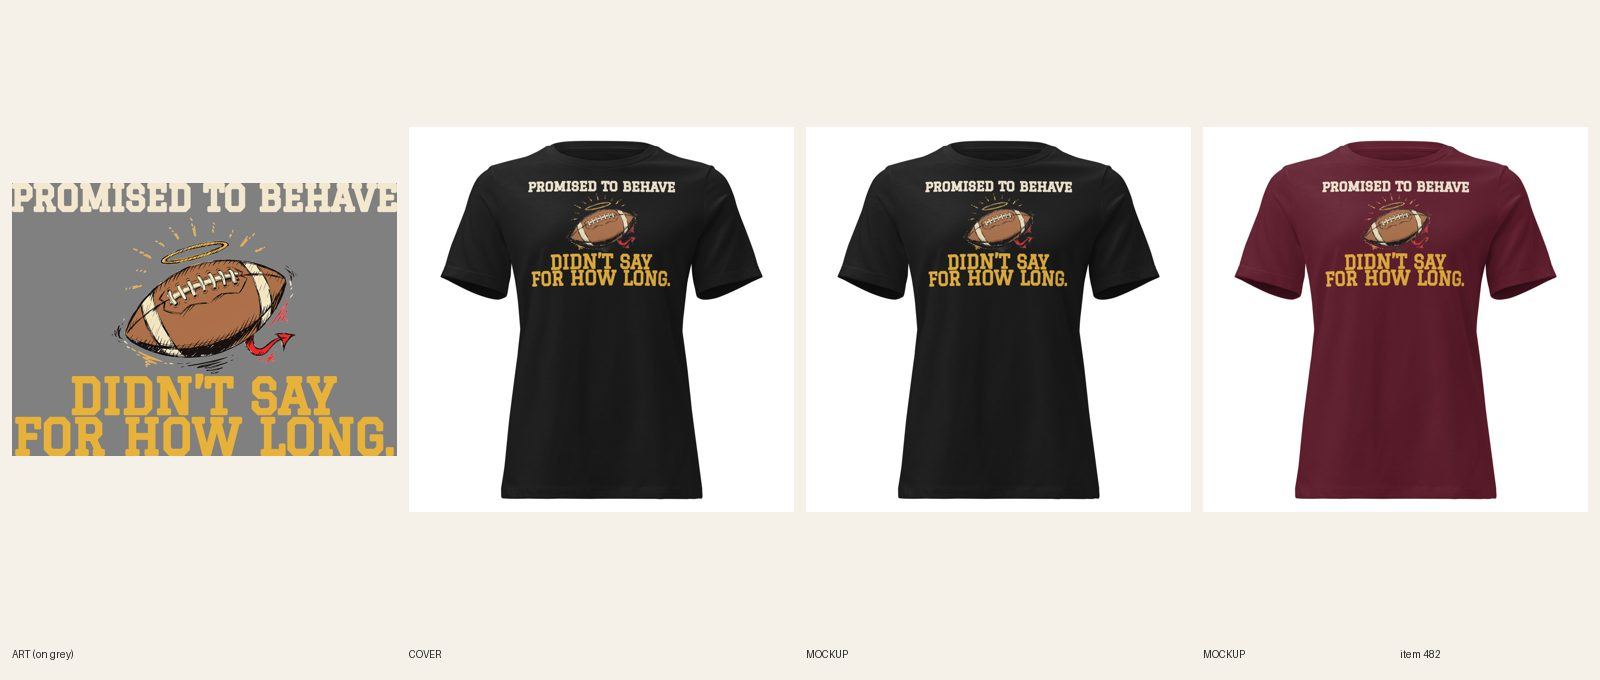
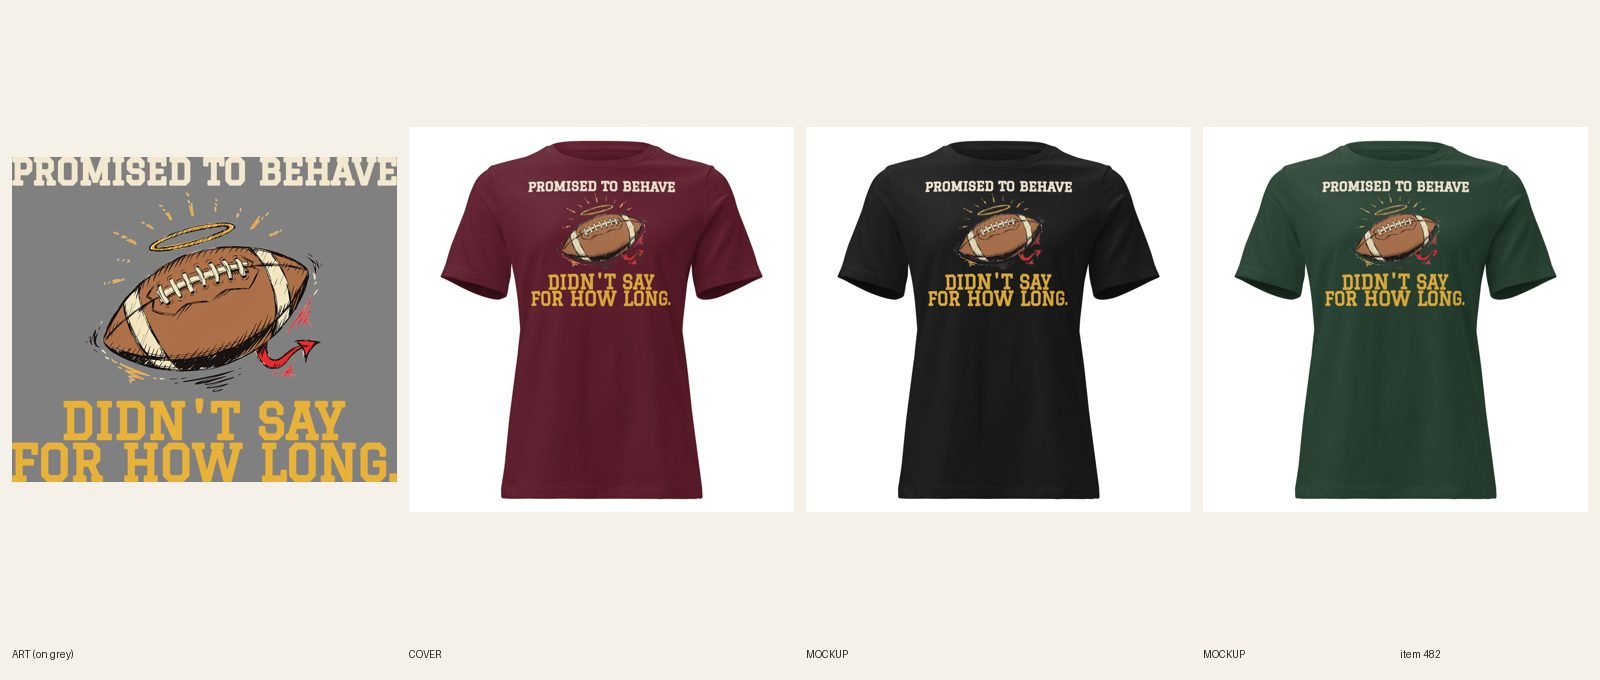
[B] review 482 Football Mom tee redo 2 (type)
Claude-Session: https://claude.ai/code/session_01MNDQHiqSPYCFoRuKRuJaej

diff --git a/scripts/b-lockup.py b/scripts/b-lockup.py
@@ -1,0 +1,46 @@
+#!/usr/bin/env python3
+"""b-lockup.py <spec.json>  lane B lockup: top line / art / bottom lines, all lines of a group at ONE font size.
+spec: {"art": "art.png", "out": "print.png", "W": 3600, "art_w": 0.62, "knock": 3000, "gap": 50, "solid": true,
+ "top": {"lines": ["PROMISED TO BEHAVE"], "font": "Graduate-Regular.ttf", "w": 0.9, "fill": "#f3e7cf", "stroke": 14, "sfill": "#f3e7cf"},
+ "bottom": {"lines": ["FOR HOW LONG.", "DIDN'T SAY"], "font": ..., "w": 0.9, ...}}
+Group font size = the size at which the widest line is w * W. An apostrophe is drawn with air on both sides so the stroke never fuses it to the next letter.
+Prints each line's ink width (px) and the headline/punch width ratio."""
+import json, subprocess, sys, tempfile, os
+from PIL import Image, ImageDraw, ImageFont
+S = json.load(open(sys.argv[1])); W = S.get('W', 3600); F = 'designs/fonts/'
+def render(text, d, size):
+    f = ImageFont.truetype(F + d['font'], size); sk = d.get('stroke', 0); air = int(size * d.get('apo_air', 0.07))
+    parts = []
+    for i, p in enumerate(text.split("'")):
+        parts.append(p)
+        if i < len(text.split("'")) - 1: parts.append("'")
+    segs = []
+    for p in parts:
+        bb = f.getbbox(p, stroke_width=sk); segs.append((p, bb))
+    tot = sum(bb[2] - bb[0] for _, bb in segs) + 2 * air * text.count("'") + 40
+    h = max(bb[3] for _, bb in segs) + 40
+    im = Image.new('RGBA', (tot + 40, h + 40), (0, 0, 0, 0)); dr = ImageDraw.Draw(im); x = 20
+    for p, bb in segs:
+        if p == "'": x += air
+        dr.text((x - bb[0], 20), p, font=f, fill=d['fill'], stroke_width=sk, stroke_fill=d.get('sfill'))
+        x += bb[2] - bb[0] + (air if p == "'" else 0)
+    return im.crop(im.getbbox())
+def group(d):
+    size = 100
+    while max(render(t, d, size).width for t in d['lines']) < W * d.get('w', 0.9) and size < 3000: size += 6
+    ims = [render(t, d, size) for t in d['lines']]
+    h = sum(i.height for i in ims) + 20 * (len(ims) - 1); o = Image.new('RGBA', (max(i.width for i in ims), h), (0, 0, 0, 0)); y = 0
+    for i in ims: o.alpha_composite(i, ((o.width - i.width) // 2, y)); y += i.height + 20
+    return o, [i.width for i in ims], size
+tmp = tempfile.mktemp(suffix='.png')
+Image.open(S['art']).convert('RGB').save(tmp)
+subprocess.run([sys.executable, 'scripts/print-prep.py', tmp, tmp, '--width', str(int(W * S.get('art_w', 0.62)))] + (['--solid'] if S.get('solid') else []), check=True, stdout=subprocess.DEVNULL)
+if S.get('knock', 3000): subprocess.run([sys.executable, 'scripts/knock-white.py', tmp, tmp, str(S['knock'])], check=True, stdout=subprocess.DEVNULL)
+art = Image.open(tmp).convert('RGBA'); art = art.crop(art.getbbox()); os.remove(tmp)
+l1, w1, s1 = group(S['top']); l2, w2, s2 = group(S['bottom']); gap = S.get('gap', 50)
+H = l1.height + gap + art.height + gap + l2.height
+o = Image.new('RGBA', (W, H), (0, 0, 0, 0))
+o.alpha_composite(l1, ((W - l1.width) // 2, 0)); o.alpha_composite(art, ((W - art.width) // 2, l1.height + gap))
+o.alpha_composite(l2, ((W - l2.width) // 2, H - l2.height))
+o = o.crop(o.getbbox()); o.save(S['out'], dpi=(300, 300))
+print(S['out'], o.size, 'headline px', w1, 'punch px', w2, 'ratio', round(max(w2) / max(w1), 2), 'type h', l1.height + l2.height, 'of', o.height, round((l1.height + l2.height) / o.height, 2))

diff --git a/docs/pipeline/482-promised-to-behave-football-mom-tee.md b/docs/pipeline/482-promised-to-behave-football-mom-tee.md
@@ -28,3 +28,5 @@ kd: 20
 - 2026-10-20 10:38 UTC builder [B]: REDO 482 (B grade, type only) done in place (stays ACTIVE; line and art kept; title unchanged; lettering sentence in the copy fixed). New lockup in Graduate (varsity slab, 0 of last 30 commits), bold stroke added: PROMISED TO BEHAVE cream above at 2880 px, then DIDN'T SAY / FOR HOW LONG. gold stacked at 2880 px each (headline 2880 / punch 2880 = 100%, punch lines taller), small FOOTBALL MOM at 50% width (cap height well over 0.3 in). One dark file for Black, Maroon, Navy, Forest Green (all dark; no light color offered, no light file needed). FW 1650 TOP 75. Verified 24/24 on the new file (no old ids), back logo kept. 4 fronts replaced in place with new alt. Phone-size read OK on all four. Cover: AI cover shows old script; handle added to retired-covers.json (flat shot). Sheet docs/review/482.jpg. fal $0.
 - 2026-10-20 11:35 UTC director: REDO from docs/review/482.jpg (product stays ACTIVE). 1. R5.3.5: DIDN'T prints as DIDN"T on all three mockups (the apostrophe glyph renders as a double mark); use a straight single apostrophe the font draws as one tick and read it at 200%. 2. R3.7.6 / reset bar: FOOTBALL MOM sits under the punch as a tiny caption (about a quarter of the punch height); cut it (the title and page carry the keyword) or set it at 45%+ of the headline height. 3. R3.7.8: PROMISED TO BEHAVE is about 55% of the punch's width and thin next to it; widen it to at least 90% of the print width so the two-beat joke reads as one lockup. 4. FOR HOW LONG. is set smaller than DIDN'T SAY; make both punch lines the same size. New sheet with the composed print in the ART panel (the current panel shows the bare football).
 - 2026-10-20 12:07 UTC builder [B]: REDO 482 round 2 (director 11:35). 1) apostrophe: set DIDN’T with a typographic apostrophe (Graduate draws it as a single tick; checked at 200% on the print and on the mockups). 2) FOOTBALL MOM cut (title and page carry the keyword). 3) PROMISED TO BEHAVE widened to the full print width (3431 px of 3432). 4) DIDN’T SAY and FOR HOW LONG. set at the same size (line widths 2278 / 3375 px). Type 36% of the print height with the art at 46% (cannot go lower without losing the football); headline 3431 / punch 3375 = 98%. Verified 24/24 on new files. 4 fronts replaced in place. Sheet remade with the composed print in the ART panel. fal $0.
+- 2026-10-20 12:20 UTC builder [B]: REDO 482 round 2 (type only, product stays ACTIVE, art/title unchanged). Fixes: 1. DIDN'T apostrophe drawn with air each side (scripts/b-lockup.py), reads as one tick at 200% on the art panel. 2. FOOTBALL MOM caption cut (title and page carry the keyword). 3. PROMISED TO BEHAVE widened to 3384 px of the 3388 px print (99%). 4. Both punch lines at ONE font size (DIDN'T SAY / FOR HOW LONG.). Log: headline 3384 px / punch 3388 px = 100%; type 987 of 2858 px (35%); football 58% of width. Graduate slab, one dark file for Black, Maroon, Navy, Forest Green (no light color offered). File 1090344550, FW 1650 TOP 75, 24/24 variants verified on the new file. 4 fronts replaced in place (alt kept), plain product shot cover. Phone-size read OK on Maroon, Black, Forest Green. Sheet docs/review/482.jpg shows the composed print. fal $0.
+- 2026-10-20 12:25 UTC builder [B] (second lane B session, collided with the 12:07 one): both sessions redid #482 round 2 at the same time. The LIVE state is THIS entry's file 1090344550 (24/24 verified, 4 fronts replaced after the 12:07 ones), and docs/review/482.jpg shows it; the 12:07 session's file is superseded. Director: judge the sheet.

diff --git a/docs/intake-log.md b/docs/intake-log.md
@@ -1,5 +1,6 @@
 RUNNING director since 2026-10-20 12:17 UTC
 RUNNING lane B since 2026-10-20 12:07 UTC
+2026-10-20 12:22 UTC — [B] Builder run: redid #482 Football Mom tee round 2 (apostrophe fixed, caption cut, headline 99% width, both punch lines one size, 100% punch/headline, 24/24 on file 1090344550, 4 fronts replaced in place). REVIEW. fal $0. Lock released.
 RUNNING lane E since 2026-10-20 12:30 UTC
 2026-10-20 12:15 UTC — [A] Builder run: redid #586 Women's Christmas Capybara tee again (ported I'M NOT STUCK. / I'M DECORATED., headline above, stacked punch below, type 41% of the print, new title). REVIEW. fal $0.
 2026-10-20 11:46 UTC — [H] Helper run: Telegram inbox empty (getUpdates returned 0 updates; no pause, resume or TikTok links; nothing to consume). Audit 610 live products: 0 errors, 37 warnings left alone; committed docs/cohesion-audit.md and .json (npm ci first). Category check: 0 products without a Shopify category (query empty). Site check: mens-welder-grinder-and-paint-department-hoodie, mens-electrician-its-probably-the-breaker-graphic-tee, mens-plumber-not-looking-at-your-sink-graphic-tee all 200. Stuck-work: lane A RUNNING line from 02:28 UTC is still open (lane A committed within the hour per the 10:49 run; alerted once at 10:49, no repeat sent). Nothing BUILDING over 3h found. Daily summary not due (before 12:00 UTC). Lock released.
